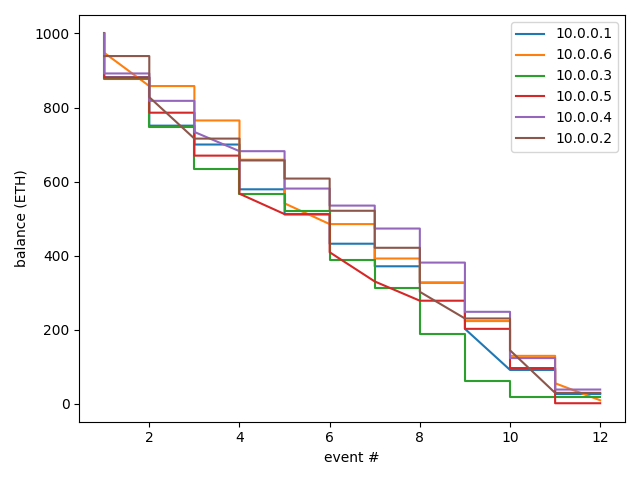
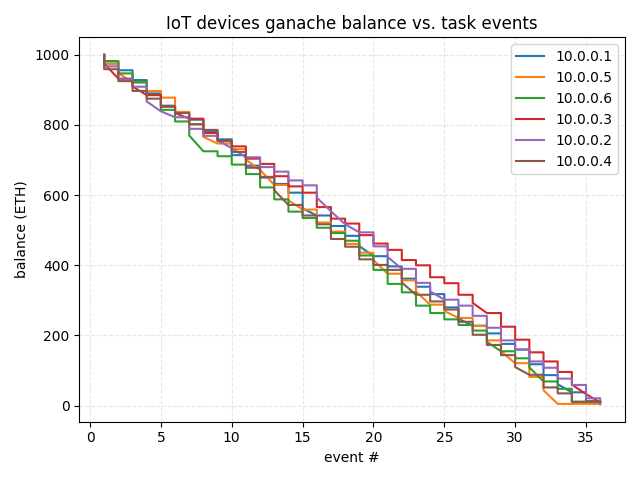
ganache wallet balances visualizer added

diff --git a/main.py b/main.py
@@ -17,7 +17,7 @@ class FloodlightVisualizer:
         links_url="http://localhost:8080/wm/topology/links/json",
         dpid_map=None,
         stations_map=None,
-        docker_hosts_map=None
+        docker_hosts_map=None,
     ):
         """
         dpid_map: mapping from DPIDs -> label (e.g. {"1000000000000001": "ap1"})
@@ -31,6 +31,7 @@ class FloodlightVisualizer:
         self.dpid_map   = dpid_map if dpid_map else {}
         self.stations_map = stations_map if stations_map else {}
         self.docker_hosts_map = docker_hosts_map if docker_hosts_map else {}
+        self.docker_usage_count = {}  # Tracks how many times each Docker host is used
 
     def fetch_json(self, url):
         """ Safely GET JSON from Floodlight, with error handling """
@@ -366,6 +367,49 @@ class FloodlightVisualizer:
     #     hop_cost  = (len(best_path) - 1 ) * 10         # edges, not vertices
     #     return docker_ip, best_path, hop_cost
     
+    # def simulate_request(self, src_ip):
+    #     ip_to_node = {}
+    #     docker_nodes = []
+    #     for n, d in self.topology.nodes(data=True):
+    #         ip_attr = d.get("ip")
+    #         if ip_attr:
+    #             ip_to_node[ip_attr] = n
+    #         if d.get("type") == "dockerhost":
+    #             docker_nodes.append(n)
+    
+    #     if src_ip not in ip_to_node:
+    #         print(f"[Error] No node in the graph has IP {src_ip}")
+    #         return None, None, None
+    #     if not docker_nodes:
+    #         print("[Error] No docker hosts present in the topology.")
+    #         return None, None, None
+    
+    #     src_node = ip_to_node[src_ip]
+    
+    #     best_path = None
+    #     best_len = None
+    #     candidates = []          # docker nodes that are equally‐near
+
+    #     for dnode in docker_nodes:
+    #         try:
+    #             p = nx.shortest_path(self.topology, src_node, dnode)
+    #         except nx.NetworkXNoPath:
+    #             continue
+    #         L = len(p)
+    #         if best_len is None or L < best_len:
+    #             best_len = L
+    #             candidates = [(dnode, p)]
+    #         elif L == best_len:
+    #             candidates.append((dnode, p))
+
+    #     if not candidates:
+    #         print(f"[Error] No path from {src_ip} to any docker host.")
+    #         return None, None, None
+
+    #     dnode, best_path = random.choice(candidates)   # <- NEW
+    #     docker_ip = self.topology.nodes[dnode]["ip"]
+    #     hop_cost  = (len(best_path) - 1) * 10
+    #     return docker_ip, best_path, hop_cost
     def simulate_request(self, src_ip):
         ip_to_node = {}
         docker_nodes = []
@@ -375,39 +419,32 @@ class FloodlightVisualizer:
                 ip_to_node[ip_attr] = n
             if d.get("type") == "dockerhost":
                 docker_nodes.append(n)
-    
+                if n not in self.docker_usage_count:
+                    self.docker_usage_count[n] = 0  # Initialize count for each Docker host
+
         if src_ip not in ip_to_node:
             print(f"[Error] No node in the graph has IP {src_ip}")
             return None, None, None
         if not docker_nodes:
             print("[Error] No docker hosts present in the topology.")
             return None, None, None
-    
+
         src_node = ip_to_node[src_ip]
-    
-        best_path = None
-        best_len = None
-        candidates = []          # docker nodes that are equally‐near
+        paths = [(dnode, nx.shortest_path(self.topology, src_node, dnode)) 
+                 for dnode in docker_nodes if nx.has_path(self.topology, src_node, dnode)]
 
-        for dnode in docker_nodes:
-            try:
-                p = nx.shortest_path(self.topology, src_node, dnode)
-            except nx.NetworkXNoPath:
-                continue
-            L = len(p)
-            if best_len is None or L < best_len:
-                best_len = L
-                candidates = [(dnode, p)]
-            elif L == best_len:
-                candidates.append((dnode, p))
-
-        if not candidates:
+        if not paths:
             print(f"[Error] No path from {src_ip} to any docker host.")
             return None, None, None
 
-        dnode, best_path = random.choice(candidates)   # <- NEW
+        # Select the Docker host with the least usage count
+        dnode, best_path = min(paths, key=lambda x: self.docker_usage_count[x[0]])
         docker_ip = self.topology.nodes[dnode]["ip"]
-        hop_cost  = (len(best_path) - 1) * 10
+        hop_cost = (len(best_path) - 1) * 3
+
+        # Update the usage count
+        self.docker_usage_count[dnode] += 1
+
         return docker_ip, best_path, hop_cost
         
 class TxLogger:
@@ -431,7 +468,7 @@ class TxLogger:
 
 #   IMPORTANT UPDATE MNEMONIC EACH TIME WHEN NEW GANACHE INSTANCE IS LAUCHED
 def fetch_wallet_info(floodlight_device_url="http://127.0.0.1:8080/wm/device/",
-                      mnemonic="quantum crack attitude guess stand tide crazy onion fabric plug wet enforce",
+                      mnemonic="ready minute federal engage joke chunk cousin duty cousin crazy bread always",
                       out_csv="wallets.csv"):
     try:
         r = requests.get(floodlight_device_url, timeout=5)
@@ -616,7 +653,7 @@ def find_shortest_route(net, src_ip, dst_ip):
         return None
     
 def run_bulk_simulation(fv,
-                        req_min=1, req_max=100,
+                        req_min=1, req_max=30,
                         wallets_csv="wallets.csv"):
     host_ips = []
     for n, d in fv.topology.nodes(data=True):
@@ -648,7 +685,7 @@ def _wallet_by_ip(ip, wallets, w3):
     return None, 0.0
 
 def run_bulk_simulation_loop(fv,
-                             req_min=1, req_max=100,
+                             req_min=1, req_max=30,
                              wallets_csv="wallets.csv",
                              ganache_url="http://127.0.0.1:8545",
                              logger=None):

diff --git a/plot_balances.py b/plot_balances.py
@@ -1,54 +1,93 @@
-import csv, collections, matplotlib
+import csv
+import collections
+import matplotlib
 matplotlib.use("TkAgg")
 import matplotlib.pyplot as plt
+from pathlib import Path
 
-LOG      = "tx_log.csv"
-WALLETS  = "wallets.csv"
+LOG = Path("tx_log.csv")
+WALLETS = Path("wallets.csv")
 
-# ------------------------------------------------------------------
-# 1.  Load initial balances for ordinary hosts
-# ------------------------------------------------------------------
-init_bal = {}
-with open(WALLETS, newline="") as f:
-    for r in csv.DictReader(f):
-        if r["is_server"] == "False":
-            init_bal[r["ip"]] = float(r.get("balance", 1000))
+DOCKER_HOSTS = {"10.0.0.7", "10.0.0.8"}
 
-# use defaultdict so unknown keys start at 0.0
-running_bal = collections.defaultdict(float, init_bal)
+def plot_host_balance():
+    init_bal = {}
+    if WALLETS.exists():
+        with WALLETS.open(newline="") as f:
+            for r in csv.DictReader(f):
+                if r["is_server"] == "False":
+                    init_bal[r["ip"]] = float(r.get("balance", 1000))
 
-# will accumulate (event_id, balance) pairs per host
-series = collections.defaultdict(list)
-hosts  = set(init_bal)            # ordinary hosts only
+    running_bal = collections.defaultdict(float, init_bal)
+    series = collections.defaultdict(list)
+    hosts = set(init_bal)
 
-# ------------------------------------------------------------------
-# 2.  Walk through the transaction log
-# ------------------------------------------------------------------
-with open(LOG, newline="") as f:
-    for row in csv.DictReader(f):
-        ev   = int(row["event_id"])
-        src  = row["src_ip"]
-        dst  = row["dst_ip"]
-        cost = float(row["total_eth"])
+    if LOG.exists():
+        with LOG.open(newline="") as f:
+            for row in csv.DictReader(f):
+                ev = int(row["event_id"])
+                src = row["src_ip"]
+                dst = row["dst_ip"]
+                cost = float(row["total_eth"])
 
-        # debit sender, credit receiver (receiver may be a server)
-        running_bal[src] -= cost
-        running_bal[dst] += cost
+                running_bal[src] -= cost
+                if dst in hosts:
+                    running_bal[dst] += cost
 
-        # record the balance snapshot for every ordinary host
-        for h in hosts:
-            series[h].append((ev, running_bal[h]))
+                for h in hosts:
+                    series[h].append((ev, running_bal[h]))
 
-# ------------------------------------------------------------------
-# 3.  Plot
-# ------------------------------------------------------------------
-for ip, pts in series.items():
-    xs, ys = zip(*pts)
-    plt.plot(xs, ys, label=ip)
+    for ip, pts in series.items():
+        xs, ys = zip(*pts)
+        plt.plot(xs, ys, label=ip)
 
-plt.xlabel("event #")
-plt.ylabel("balance (ETH)")
-plt.legend()
-plt.tight_layout()
-plt.savefig("balances_vs_tasks.png")
-plt.show()
+    plt.title("IoT devices ganache balance vs. task events")
+    plt.xlabel("event #")
+    plt.ylabel("balance (ETH)")
+    plt.grid(True, linestyle="--", alpha=0.3)
+    plt.legend()
+    plt.tight_layout()
+    plt.savefig("balances_vs_tasks.png")
+    plt.show()
+
+def plot_docker_balances():
+    docker_bal = {ip: 0.0 for ip in DOCKER_HOSTS}
+    if WALLETS.exists():
+        with WALLETS.open(newline="") as f:
+            for row in csv.DictReader(f):
+                ip = row["ip"]
+                if ip in DOCKER_HOSTS:
+                    docker_bal[ip] = float(row.get("balance", 0.0))
+
+    series = {ip: [] for ip in DOCKER_HOSTS}
+    if LOG.exists():
+        with LOG.open(newline="") as f:
+            for row in csv.DictReader(f):
+                ev = int(row["event_id"])
+                src = row["src_ip"]
+                dst = row["dst_ip"]
+                cost = float(row["total_eth"])
+
+                if dst in DOCKER_HOSTS:
+                    docker_bal[dst] += cost
+
+                for ip in DOCKER_HOSTS:
+                    series[ip].append((ev, docker_bal[ip]))
+
+    plt.figure(figsize=(8,4))
+    for ip, pts in series.items():
+        xs, ys = zip(*pts)
+        plt.plot(xs, ys, label=ip)
+
+    plt.title("Docker‑host token balance vs. task events")
+    plt.xlabel("event #")
+    plt.ylabel("balance (ETH)")
+    plt.grid(True, linestyle="--", alpha=0.3)
+    plt.legend()
+    plt.tight_layout()
+    plt.savefig("docker_balances_vs_tasks.png")
+    plt.show()
+
+if __name__ == "__main__":
+    plot_host_balance()
+    plot_docker_balances()
